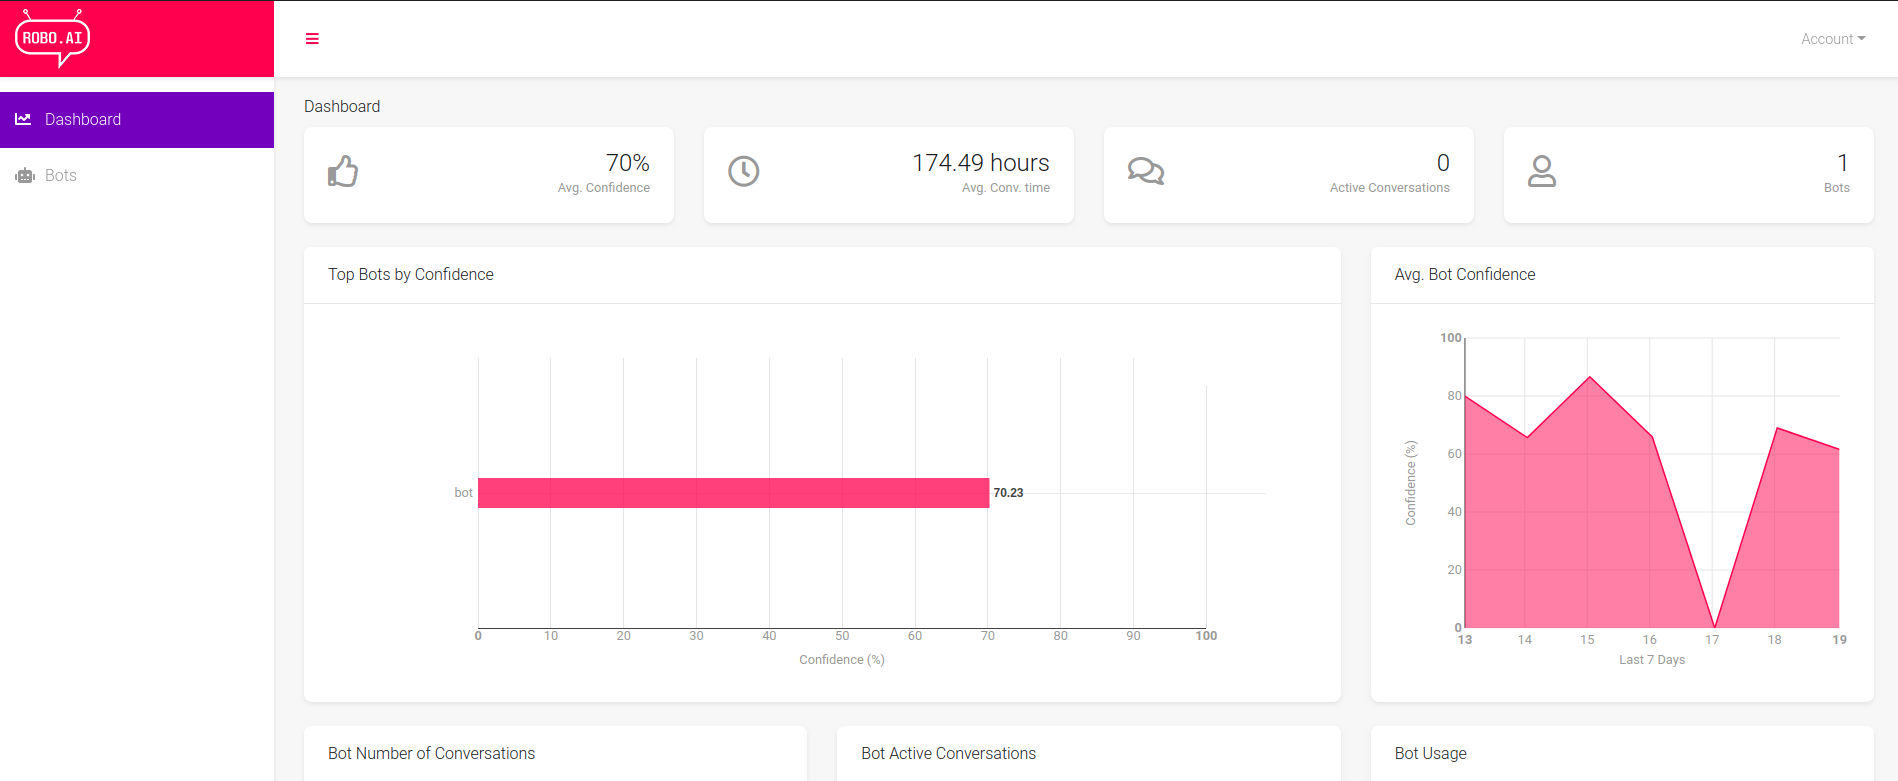
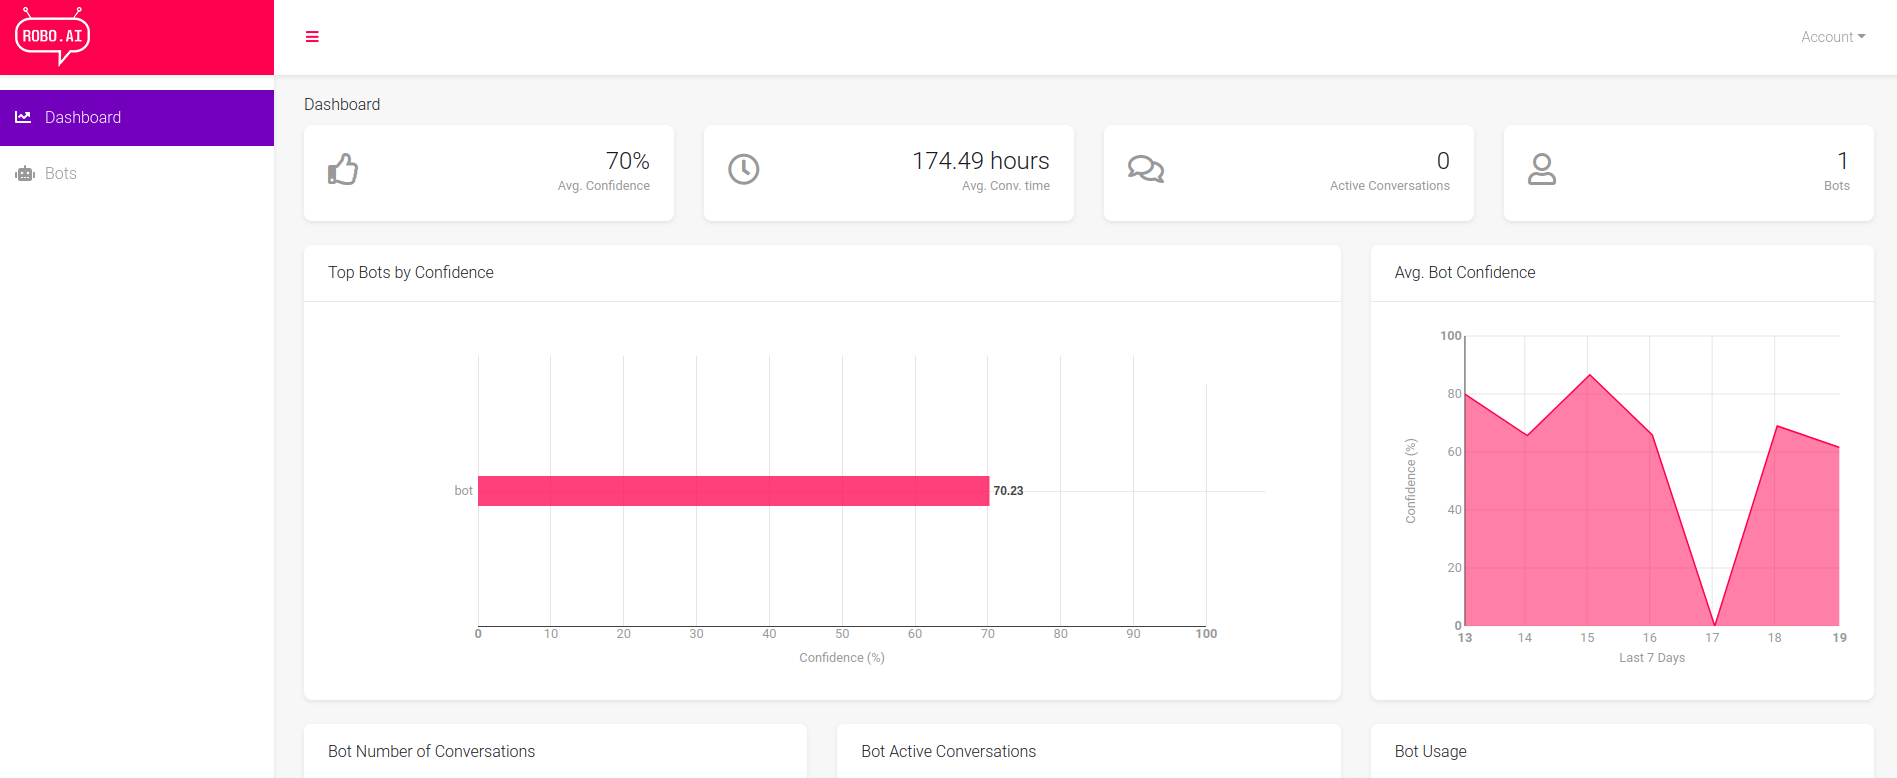
Change some images size

diff --git a/docs/manage_roboai_account.md b/docs/manage_roboai_account.md
@@ -10,45 +10,52 @@ The main view shows you some KPIs related with the usage of your bots. Delving i
 On the left sidebar you can navigate to the bots page where you'll see a list of the available bots in your environment and/or create new ones. 
 
 ## Bots view
+The bots page looks like the image below and it shows you the list of bots in your environment.
 <img align="center" alt="bots view" src="assets/bots_view.png"></img>
-This page shows you the list of bots in your environment. 
-If you click the bot you'll be shown the following panel:
+<br>
+If you click one of the bots you'll be shown the following panel:
 <img align="center" alt="bot" src="assets/bot.png"></img>
 
 ### Info tab
 The Info tab (current one) shows you general information about the bot and allows you to define some additional settings: <br>
-- General Settings: number of minutes a conversation will stay active while being idle.
-- Conversational Engine: you can check the Runtime status of your bot
-<img align="right" alt="rasa-runtime" src="assets/rasa_runtime.png"></img>
-- Text to Speech: Enable or disable Text to Speech and select engines and speaking rates
+- General Settings: number of minutes a conversation will stay active while idle.
+- Conversational Engine: you can check the Runtime status of your bot.
+<img align="right" width="500" height="202" alt="rasa-runtime" src="assets/rasa_runtime.png"></img>
+- Text to Speech: Enable or disable Text to Speech and select engines and speaking rates.
 - Speech to Text: Enable or disable Speech to Text and select engines
 - Sentiment: Enable or disable sentiment and select engines
+<br>
+<br>
 
 ### Analytics tab
-<img align="center" alt="analytics" src="assets/analytics_tab.png"></img>
 The Analytics tab will show you some more KPIs for the specific bot you're checking.
 You can also filter and export the data for further analysis. 
+<img align="center" alt="analytics" src="assets/analytics_tab.png"></img>
 
 ### Logs tab
 <img align="center" alt="logs" src="assets/logs_tab.png"></img>
 The Logs tab shows you the interactions between bot and users across channels and throughout time. 
-It shows you the dialogues by Date/Time and Conversation ID. You're also able to see how the intents and being classified and which entites are being picked up. 
-You can also filter the logs and export them for further analysis.
+It shows you the dialogues by Date/Time and Conversation ID. You're also able to see how the intents are being classified and which entites are being picked up. 
+In this page, filtering the logs and export them for further analysis is also an option.
 
 ### Test tab
-<img align="center" alt="test" src="assets/test_tab.png"></img>
 In the test tab you can interact with your bot. This is useful if you want to test your bot before deploying it live, for example. 
+<img align="center" alt="test" src="assets/test_tab.png"></img>
+
 
 ### Channels tab
+The Channels tab looks like the image below and it allows you to manage the channels your bot is running on. 
 <img align="center" alt="channels" src="assets/channels_tab.png"></img>
-The Channels tab allows you to manage the channels your bot is running on. 
+
 
 ### Creating a bot
-From any of the previous tabs you can click on the "Create New Bot" button.
-When clicking that you'll be prompted with a pop-up window like the following:
-<img align="right" alt="channels" src="assets/create_new_bot.png"></img>
+From any of the previous tabs you can click on the "Create New Bot" button to generate a new bot.
+When clicking that button you'll be prompted with a pop-up window like the following:
+<img align="right" width="470" height="415" alt="channels" src="assets/create_new_bot.png"></img>
 In this menu you can assign a name to your bot, enter a description and choose the number of minutes a conversation will stay active while being idle. Only the name of the bot is a mandatory field. The description and Maximum idle conversation time fields can be defined later.
 Creating a bot on the Robo AI platform will generate a unique ID which will be used later when you deploy bots. It's important that you remember that this is only an interface to the content of your bot and that this entity must exist before you deploy a bot. 
+<br>
+<br>
 
 ### Generating API keys
 In order to deploy bots you also need to generate and enable an API key first. To do so, click on the Account button on the top right corner. 
@@ -57,6 +64,6 @@ One of the available options will be API Keys. If you select that, you'll see th
 These are the available and enabled API keys. If you select "Show key" the key will be visible and you can copy it for your purpose. 
 
 To create a new key select New API Key. You'll be prompted with a pop-up window where you can label your API key. 
-*Note:* When you create a new API Key you must enable it before using it otherwise deployments and other actions will not work. (To enable an API Key, click on the three dots next to "Disabled" and click "Enable").
+<b>Note:</b> When you create a new API Key you must enable it before using it otherwise deployments and other actions will not work. (To enable an API Key, click on the three dots next to "Disabled" and click "Enable").
 
 These are the main features to manage and get around with the Robo AI platform. If you have any doubts don't hesitate to contact us.  

diff --git a/README.md b/README.md
@@ -7,7 +7,7 @@ This tool allows anyone to create, train, deploy, monitor and manage a Rasa base
 Check our [CHANGELOG](CHANGELOG.md) for the latest changes.
 
 Tutorials: 
-* [How to create and manage an account on the ROBO.AI platform](docs/manage_roboai_account.md)
+* [The ROBO.AI platform - creating bots and API keys for deployment](docs/manage_roboai_account.md)
 * [Creating and deploying a Rasa chatbot on the ROBO.AI platform](docs/create_deploy_bot.md)
 
 ### How to install ###
